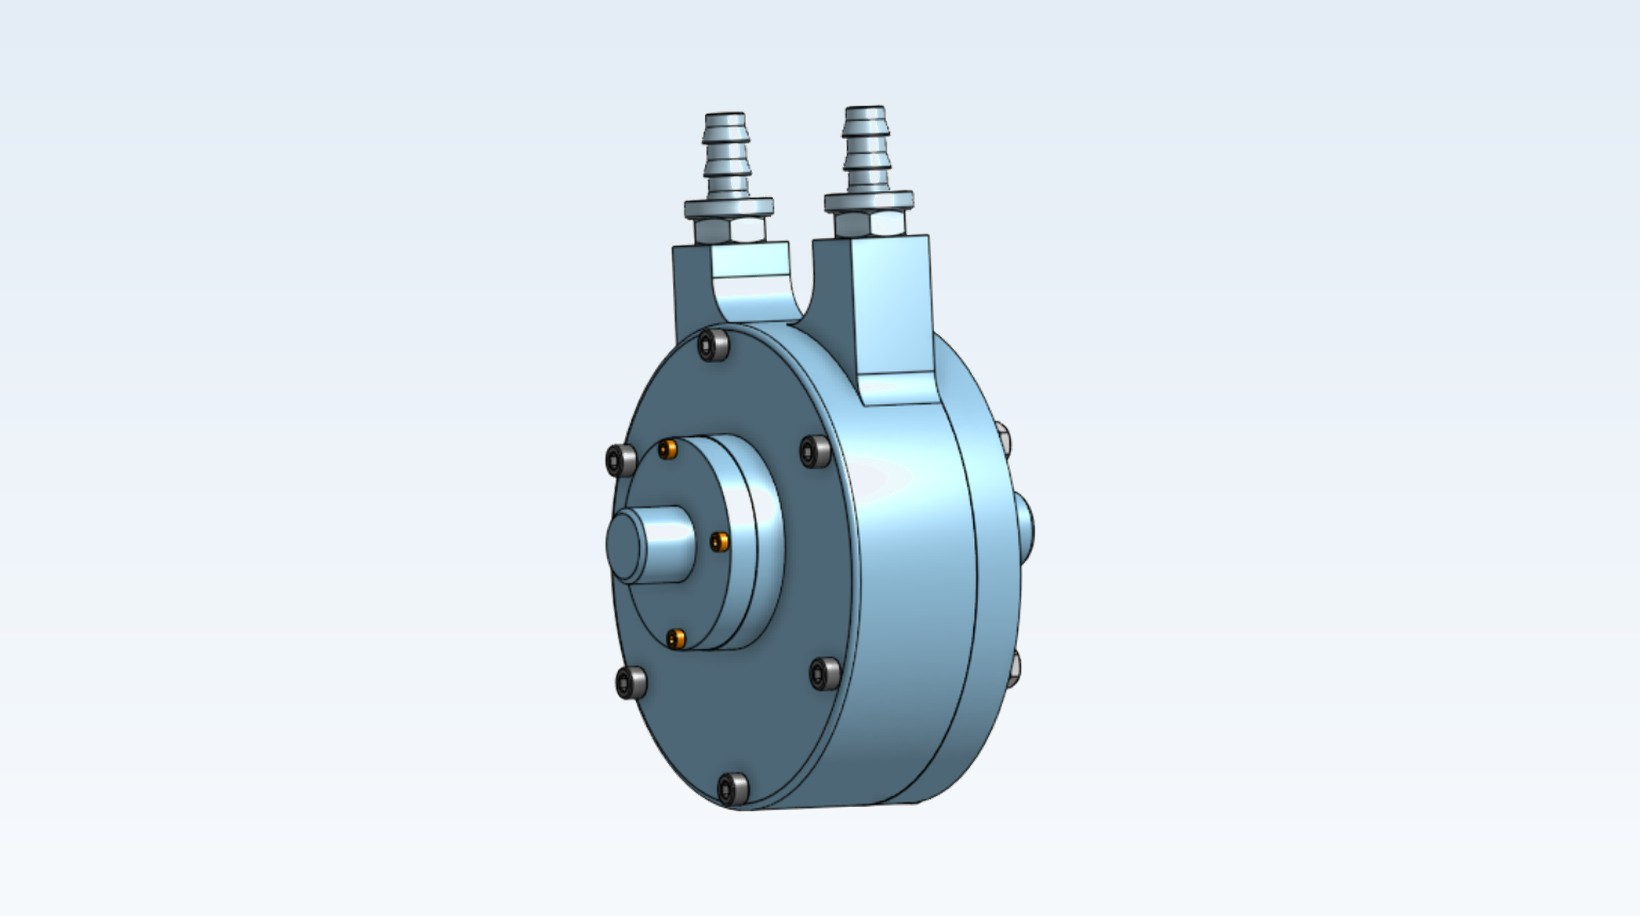
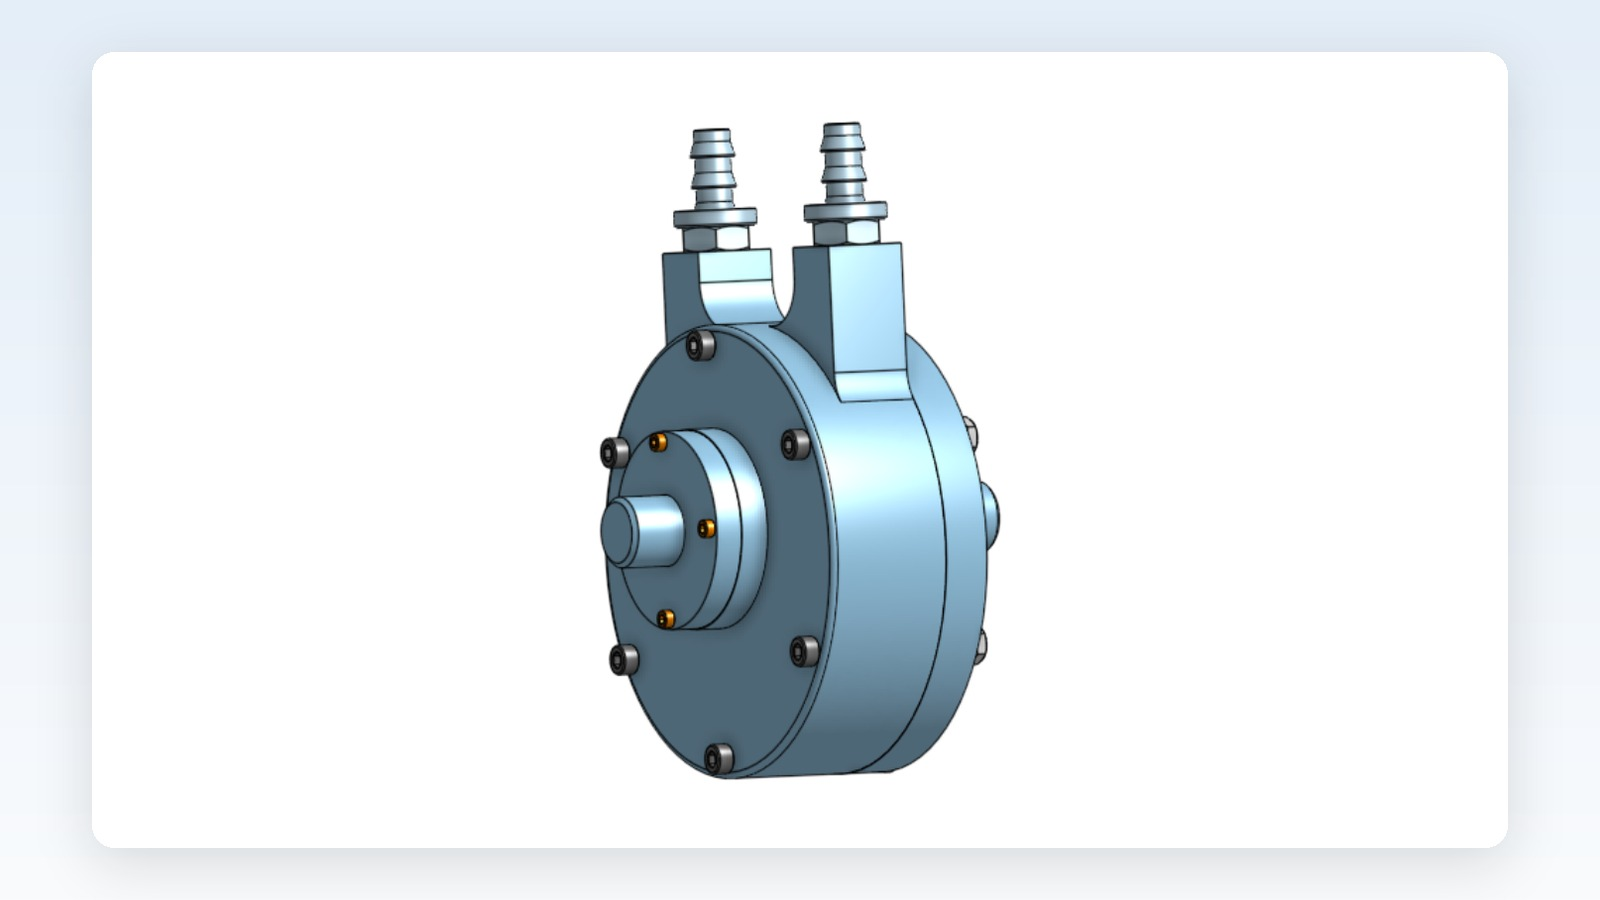
Unify all project covers: 16:9 gradient card treatment for header + teaser

Changed region(s): [[0.0312, 0.0311, 0.9688, 0.9022]]

diff --git a/_projects/hexabot.md b/_projects/hexabot.md
@@ -4,8 +4,8 @@ title: "Hexabot Locomotion Control — Kinematics, MuJoCo Modeling & Procedural 
 permalink: /projects/hexabot/
 excerpt: "A fully physics-simulated hexapod built from analytical kinematics, a custom MuJoCo XML model, and a real-time procedural tripod gait controller."
 header:
-  teaser: /assets/images/projects/Hexabot/walking.gif
-  image: /assets/images/projects/Hexabot/walking.gif
+  teaser: /assets/images/projects/Hexabot/cover.jpg
+  image: /assets/images/projects/Hexabot/cover.jpg
 categories:
   - Mechatronics
   - Controls
@@ -116,6 +116,6 @@ This tuning process mattered in practice. Parameters such as `STEP_FREQ = 0.9 Hz
 
 The final simulation demonstrated the robot walking stably on flat ground, transitioning smoothly between stand and motion, turning without losing balance, and combining turning with translation into curved paths. The animation also showed that the tripod gait remained visually consistent and physically plausible under the chosen actuator and contact parameters. Because the controller supported held-key input rather than single-shot commands, the robot could be driven continuously in a way that felt much closer to operating a real mobile platform. Forward motion, turning, stopping, and curved walking all emerged from the same continuous control law rather than from separate canned actions.
 
-![Hexabot Walking Demo](/assets/images/projects/Hexabot/walking.gif)
+![Hexabot Walking Demo](/assets/images/projects/Hexabot/cover.jpg)
 
 The most important outcome of the project was not any single equation or controller parameter. It was the consistency of the whole pipeline. The math matched the XML, the XML matched the control assumptions, and the controller produced motion that the MuJoCo physics engine could actually realize. That consistency is what turned a legged-robot thought exercise into a functioning simulation platform. At the same time, the project made the current limitations very visible in a productive way. The gait still assumes flat terrain, the controller is still fundamentally open-loop at the gait level, and torso attitude is not yet actively stabilized by IMU feedback. Those gaps are now well defined, which makes the project a strong base for future extensions such as terrain adaptation, contact-aware gait timing, or full body stabilization.

diff --git a/_projects/transformable-luggage.md b/_projects/transformable-luggage.md
@@ -4,8 +4,8 @@ title: "Transformable Carry-On / Checked Luggage Prototype"
 permalink: /projects/transformable-luggage/
 excerpt: "Led the concept, mechanism development, CAD, and prototype build of a transformable suitcase that expands between compact and high-capacity travel modes."
 header:
-  teaser: /assets/images/projects/suitcase/Concept%20Final.jpg
-  image: /assets/images/projects/suitcase/Concept%20Final.jpg
+  teaser: /assets/images/projects/suitcase/cover.jpg
+  image: /assets/images/projects/suitcase/cover.jpg
 categories:
   - Product Design
 tags:
@@ -60,7 +60,7 @@ The initial concept-validation stage is captured in the early mechanism simulati
 This stage established that the core concept could transition between configurations before full detail design began. After validating the motion concept, we developed the project identity and refined the first integrated product presentation.
 
 ### Media
-![Concept Final](/assets/images/projects/suitcase/Concept%20Final.jpg)
+![Concept Final](/assets/images/projects/suitcase/cover.jpg)
 *Final concept render showing the suitcase in compact, expanded, and open configurations.*
 
 ![Project Logo](/assets/images/projects/suitcase/HorizonLogo_V1.jpg)

diff --git a/_projects/rotary-calendar.md b/_projects/rotary-calendar.md
@@ -4,8 +4,8 @@ title: "End-to-End Development and Commercialisation of a Rotary Calendar Produc
 permalink: /projects/rotary-calendar/
 excerpt: "From market survey and concept selection through mechanism design, iterative prototyping, materials engineering, and a fully sold-out 20-unit production run."
 header:
-  teaser: /assets/images/projects/rotary/rotary_calendar.jpg
-  image: /assets/images/projects/rotary/rotary_calendar.jpg
+  teaser: /assets/images/projects/rotary/cover.jpg
+  image: /assets/images/projects/rotary/cover.jpg
 categories:
   - Product Design
   - Manufacturing
@@ -268,7 +268,7 @@ All manufacturing was carried out by the team on lab equipment. The 20-unit batc
 
 ## Final Product
 
-![Final rotary calendar](/assets/images/projects/rotary/rotary_calendar.jpg)
+![Final rotary calendar](/assets/images/projects/rotary/cover.jpg)
 *Completed rotary calendar with brass axle and bolts, aluminum 6061-T1 frame, resin-cast rollers, and hardwood base.*
 
 The completed units were offered at material cost to the class and wider school network. All 20 units were ordered and sold before the end of the semester, and several were pre-ordered before the batch was finished.

diff --git a/_projects/gcode-generator.md b/_projects/gcode-generator.md
@@ -4,8 +4,8 @@ title: "Automatic G-code Generator for Circuit-Block CNC Machining"
 permalink: /projects/gcode-generator/
 excerpt: "An image- and editor-driven pipeline that turns 2D circuit schematics into Haas/Fanuc-ready G-code for HDPE direct-ink-writing trays, taking the previous group's prototype to a robust, testable production tool."
 header:
-  image: /assets/images/projects/G_code_genrator%20/cover.png
-  teaser: /assets/images/projects/G_code_genrator%20/cover.png
+  image: /assets/images/projects/G_code_genrator%20/cover.jpg
+  teaser: /assets/images/projects/G_code_genrator%20/cover.jpg
 categories:
   - Manufacturing
   - Automation

diff --git a/_projects/fault-tolerant-mpc.md b/_projects/fault-tolerant-mpc.md
@@ -4,8 +4,8 @@ title: "Fault-Tolerant MPC for Aircraft Recovery (Collaborative Research)"
 permalink: /projects/fault-tolerant-mpc/
 excerpt: "A two-layer MPC guidance stack for rerouting a damaged aircraft toward a feasible runway or crash landing site under degraded control authority."
 header:
-  teaser: /assets/images/projects/MPC/cover.png
-  image: /assets/images/projects/MPC/cover.png
+  teaser: /assets/images/projects/MPC/cover.jpg
+  image: /assets/images/projects/MPC/cover.jpg
 categories:
   - Controls
 tags:
